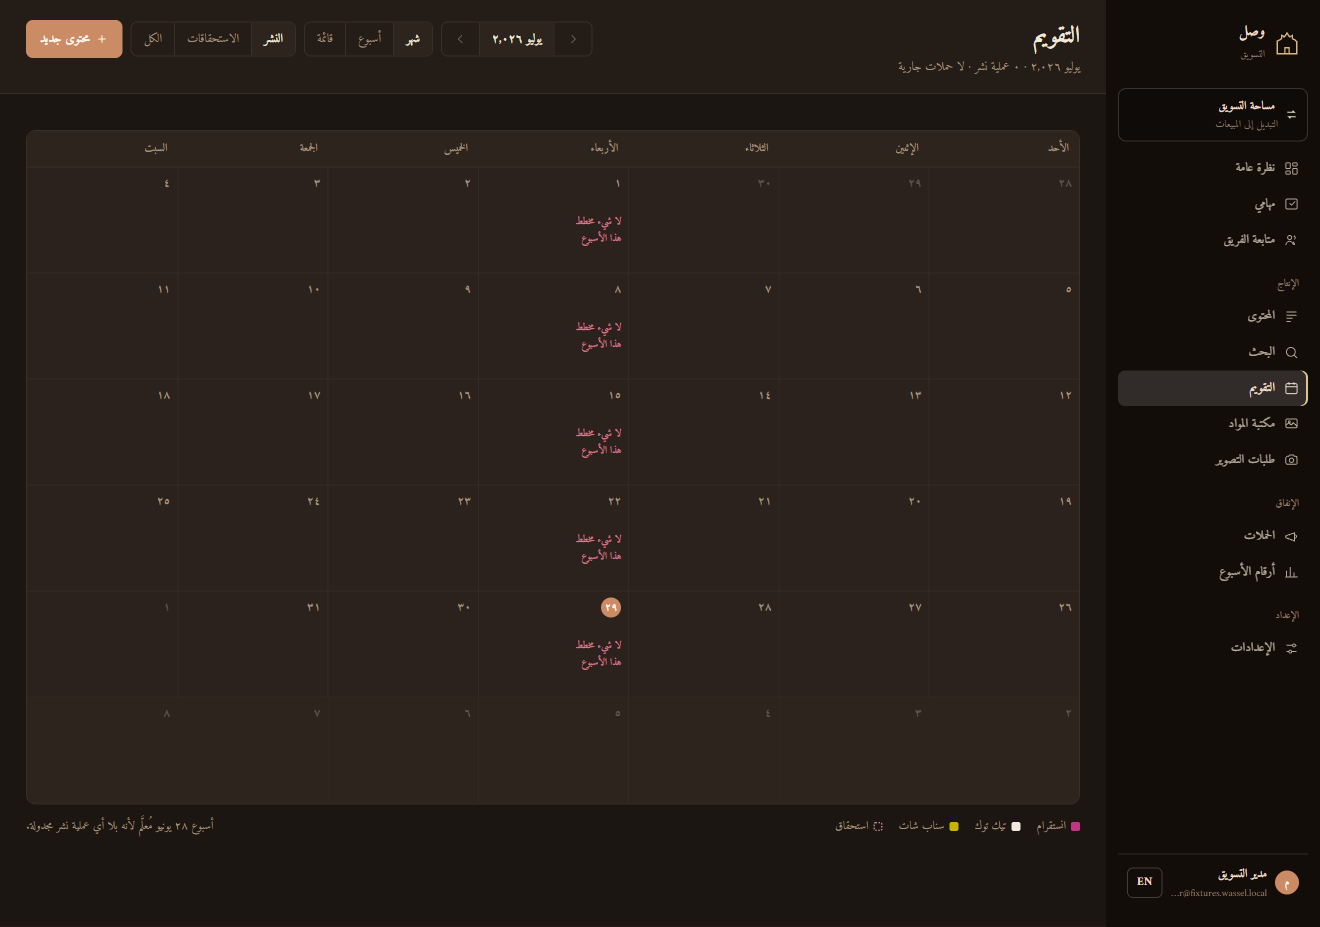
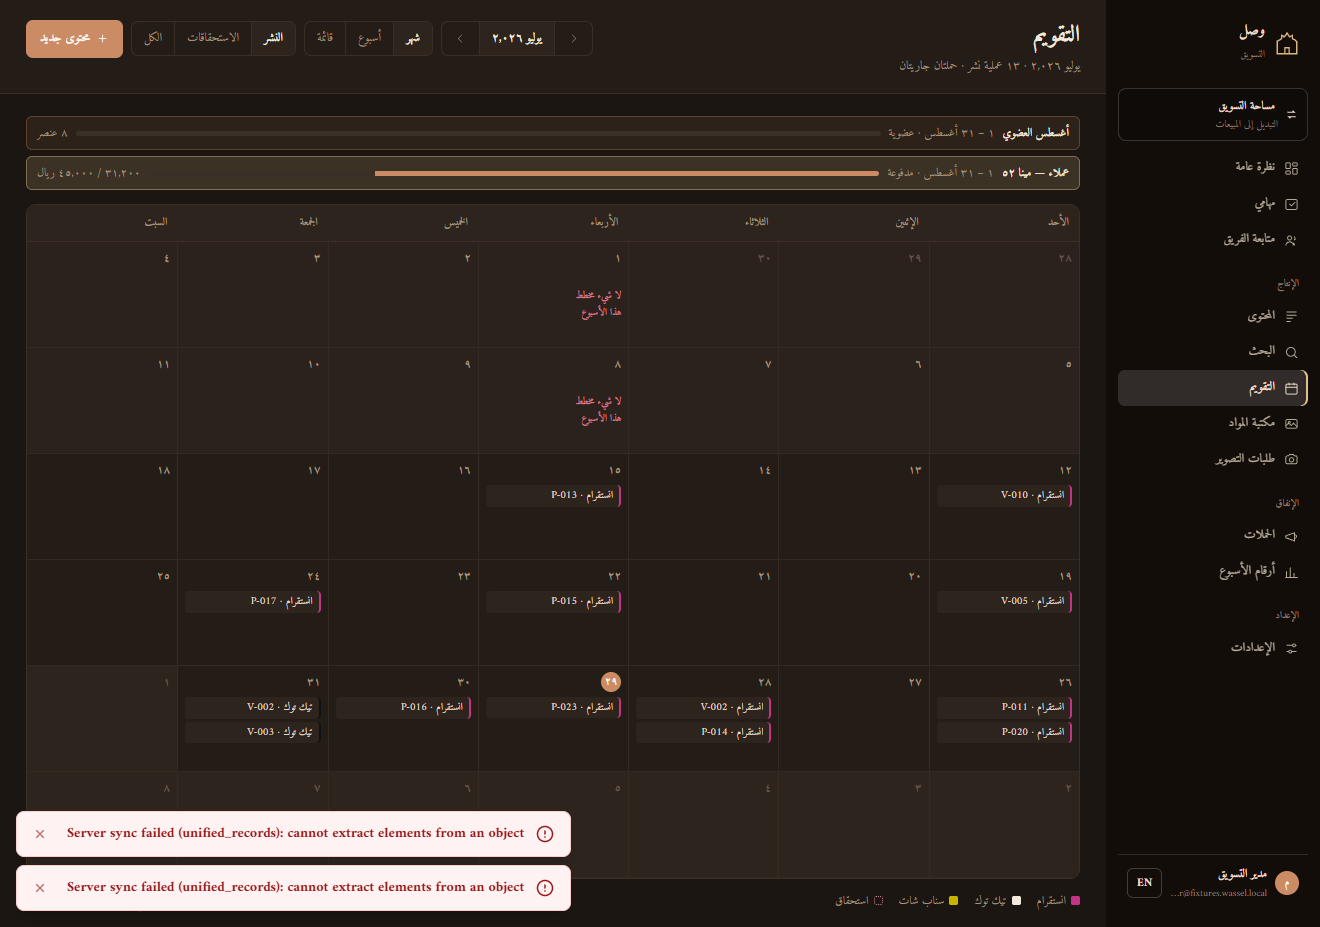
Fixtures phase 1 LIVE + verified on the branch; filled-data capture sweep
State-driven V-004 loop (converges from any partial state); migration 10
(versions INSERT + assign — ops-owned step submits); manifest reads real PNG
dims (s35 off-by-one rounding); filled baselines s01-.78 s04-.85 s16-.62 with
diff evidence; drift-chase plan recorded in BUILD-STATE.

diff --git a/docs/marketing-reference/manifest.md b/docs/marketing-reference/manifest.md
@@ -1,19 +1,19 @@
 # Marketing OS — Visual Gate Manifest
 
-Generated: 2026-08-02T13:48:02.430Z
+Generated: 2026-08-02T15:53:34.736Z
 Sources: `frames-index.json` + `coverage-matrix.mjs` (regenerate with `node scripts/mos-manifest.mjs`)
 
-**Totals:** 278 rows — 124 ssim / 154 assert — pending: 120 ssim / 154 assert — updated by `scripts/mos-qa.mjs`
+**Totals:** 278 rows — 124 ssim / 154 assert — pending: 116 ssim / 154 assert — carried forward: 265 / reset: 13
 
 | id | screen | route | setup | locale | theme | role | viewport | gate | status |
 | --- | --- | --- | --- | --- | --- | --- | --- | --- | --- |
 | s01-main-ar-dark | 1 | /m | overview-loaded | ar | dark | marketing_manager | 1320x760 | ssim | fail |
 | s01-main-ar-light | 1 | /m | overview-loaded | ar | light | marketing_manager | 1320x760 | ssim | pending |
-| s02-main-ar-dark | 2 | /m/my-work | mywork-writer | ar | dark | writer | 1320x760 | ssim | pending |
+| s02-main-ar-dark | 2 | /m/my-work | mywork-writer | ar | dark | writer | 1320x760 | ssim | fail |
 | s02-main-ar-light | 2 | /m/my-work | mywork-writer | ar | light | writer | 1320x760 | ssim | pending |
-| s03-main-ar-dark | 3 | /m/content | content-table | ar | dark | marketing_manager | 1320x760 | ssim | pending |
+| s03-main-ar-dark | 3 | /m/content | content-table | ar | dark | marketing_manager | 1320x760 | ssim | fail |
 | s03-main-ar-light | 3 | /m/content | content-table | ar | light | marketing_manager | 1320x760 | ssim | pending |
-| s04-main-ar-dark | 4 | /m/content?view=board | content-board | ar | dark | marketing_manager | 1320x760 | ssim | pending |
+| s04-main-ar-dark | 4 | /m/content?view=board | content-board | ar | dark | marketing_manager | 1320x760 | ssim | fail |
 | s04-main-ar-light | 4 | /m/content?view=board | content-board | ar | light | marketing_manager | 1320x760 | ssim | pending |
 | s05-main-ar-dark | 5 | /m/content | new-content-modal | ar | dark | marketing_manager | 1320x754 | ssim | pending |
 | s05-main-ar-light | 5 | /m/content | new-content-modal | ar | light | marketing_manager | 1320x754 | ssim | pending |
@@ -47,8 +47,8 @@ Sources: `frames-index.json` + `coverage-matrix.mjs` (regenerate with `node scri
 | s19-main-ar-light | 19 | /m/campaigns | new-campaign-modal | ar | light | marketing_manager | 1320x1070 | ssim | pending |
 | s20-main-ar-dark | 20 | /m/campaigns/:c002?tab=executions | c002-executions | ar | dark | marketing_manager | 1320x1152 | ssim | pending |
 | s20-main-ar-light | 20 | /m/campaigns/:c002?tab=executions | c002-executions | ar | light | marketing_manager | 1320x1152 | ssim | pending |
-| s21-main-ar-dark | 21 | /m/campaigns/:c002/exec/:e1 | c002-exec-detail | ar | dark | marketing_manager | 1320x1004 | ssim | pending |
-| s21-main-ar-light | 21 | /m/campaigns/:c002/exec/:e1 | c002-exec-detail | ar | light | marketing_manager | 1320x1004 | ssim | pending |
+| s21-main-ar-dark | 21 | /m/campaigns/:c002/exec/:e1 | c002-exec-detail | ar | dark | marketing_manager | 1320x1005 | ssim | pending |
+| s21-main-ar-light | 21 | /m/campaigns/:c002/exec/:e1 | c002-exec-detail | ar | light | marketing_manager | 1320x1005 | ssim | pending |
 | s22-main-ar-dark | 22 | /m/library/:a012 | asset-detail | ar | dark | marketing_manager | 1320x1066 | ssim | pending |
 | s22-main-ar-light | 22 | /m/library/:a012 | asset-detail | ar | light | marketing_manager | 1320x1066 | ssim | pending |
 | s23-main-ar-dark | 23 | /m/library/upload | upload-queue-realism | ar | dark | marketing_manager | 1320x850 | ssim | pending |
@@ -83,25 +83,25 @@ Sources: `frames-index.json` + `coverage-matrix.mjs` (regenerate with `node scri
 | s32-phone1-ar-light | 32 | /m/campaigns/:c002 | mobile-exec-cards | ar | light | marketing_manager | 374x748 | ssim | pending |
 | s32-phone2-ar-dark | 32 | /m/campaigns/:c002 | mobile-exec-cards | ar | dark | marketing_manager | 374x748 | ssim | pending |
 | s32-phone2-ar-light | 32 | /m/campaigns/:c002 | mobile-exec-cards | ar | light | marketing_manager | 374x748 | ssim | pending |
-| s33-main-ar-dark | 33 | /m/settings/roles | settings-role-matrix | ar | dark | marketing_manager | 1320x1181 | ssim | pending |
-| s33-main-ar-light | 33 | /m/settings/roles | settings-role-matrix | ar | light | marketing_manager | 1320x1181 | ssim | pending |
+| s33-main-ar-dark | 33 | /m/settings/roles | settings-role-matrix | ar | dark | marketing_manager | 1320x1180 | ssim | pending |
+| s33-main-ar-light | 33 | /m/settings/roles | settings-role-matrix | ar | light | marketing_manager | 1320x1180 | ssim | pending |
 | s34-main-ar-dark | 34 | /m | overview-ceo | ar | dark | ceo | 1320x955 | ssim | pending |
 | s34-main-ar-light | 34 | /m | overview-ceo | ar | light | ceo | 1320x955 | ssim | pending |
-| s35-main-ar-dark | 35 | /m/team | team-followup | ar | dark | marketing_manager | 1320x880 | ssim | pending |
-| s35-main-ar-light | 35 | /m/team | team-followup | ar | light | marketing_manager | 1320x880 | ssim | pending |
+| s35-main-ar-dark | 35 | /m/team | team-followup | ar | dark | marketing_manager | 1320x879 | ssim | pending |
+| s35-main-ar-light | 35 | /m/team | team-followup | ar | light | marketing_manager | 1320x879 | ssim | pending |
 | s36-main-ar-dark | 36 | /m/content/:v004 | v004-role-harness | ar | dark | marketing_manager | 1320x880 | ssim | pending |
 | s36-main-ar-light | 36 | /m/content/:v004 | v004-role-harness | ar | light | marketing_manager | 1320x880 | ssim | pending |
 | s37-main-ar-dark | 37 | /m/settings/people | settings-people | ar | dark | marketing_manager | 1320x760 | ssim | pending |
 | s37-main-ar-light | 37 | /m/settings/people | settings-people | ar | light | marketing_manager | 1320x760 | ssim | pending |
 | s38-main-ar-dark | 38 | /m/content/:v004?tab=tasks | request-changes-modal | ar | dark | marketing_manager | 1320x741 | ssim | pending |
 | s38-main-ar-light | 38 | /m/content/:v004?tab=tasks | request-changes-modal | ar | light | marketing_manager | 1320x741 | ssim | pending |
-| s39-main-ar-dark | 39 | /m/campaigns/:c002?tab=content | c002-content-tab | ar | dark | marketing_manager | 1320x905 | ssim | pending |
-| s39-main-ar-light | 39 | /m/campaigns/:c002?tab=content | c002-content-tab | ar | light | marketing_manager | 1320x905 | ssim | pending |
+| s39-main-ar-dark | 39 | /m/campaigns/:c002?tab=content | c002-content-tab | ar | dark | marketing_manager | 1320x904 | ssim | pending |
+| s39-main-ar-light | 39 | /m/campaigns/:c002?tab=content | c002-content-tab | ar | light | marketing_manager | 1320x904 | ssim | pending |
 | s40-main-ar-dark | 40 | /m/campaigns/:c002?tab=results | c002-results-tab | ar | dark | marketing_manager | 1320x822 | ssim | pending |
 | s40-main-ar-light | 40 | /m/campaigns/:c002?tab=results | c002-results-tab | ar | light | marketing_manager | 1320x822 | ssim | pending |
 | s41-main-ar-dark | 41 | /m/library/unused | library-unused | ar | dark | marketing_manager | 1320x760 | ssim | pending |
 | s41-main-ar-light | 41 | /m/library/unused | library-unused | ar | light | marketing_manager | 1320x760 | ssim | pending |
-| s42-main-ar-dark | 42 | /m/shoots | shoots-bands | ar | dark | marketing_manager | 1320x865 | ssim | pending |
+| s42-main-ar-dark | 42 | /m/shoots | shoots-bands | ar | dark | marketing_manager | 1320x865 | ssim | fail |
 | s42-main-ar-light | 42 | /m/shoots | shoots-bands | ar | light | marketing_manager | 1320x865 | ssim | pending |
 | s43-main-ar-dark | 43 | /m/settings/notifications | settings-notifications | ar | dark | marketing_manager | 1320x791 | ssim | pending |
 | s43-main-ar-light | 43 | /m/settings/notifications | settings-notifications | ar | light | marketing_manager | 1320x791 | ssim | pending |
@@ -151,17 +151,17 @@ Sources: `frames-index.json` + `coverage-matrix.mjs` (regenerate with `node scri
 | s17-main-en-mirror | 17 | /m/settings/workflows | workflows-editor | en | dark | marketing_manager | 1320x1012 | assert | pending |
 | s19-main-en-mirror | 19 | /m/campaigns | new-campaign-modal | en | dark | marketing_manager | 1320x1070 | assert | pending |
 | s20-main-en-mirror | 20 | /m/campaigns/:c002?tab=executions | c002-executions | en | dark | marketing_manager | 1320x1152 | assert | pending |
-| s21-main-en-mirror | 21 | /m/campaigns/:c002/exec/:e1 | c002-exec-detail | en | dark | marketing_manager | 1320x1004 | assert | pending |
+| s21-main-en-mirror | 21 | /m/campaigns/:c002/exec/:e1 | c002-exec-detail | en | dark | marketing_manager | 1320x1005 | assert | pending |
 | s22-main-en-mirror | 22 | /m/library/:a012 | asset-detail | en | dark | marketing_manager | 1320x1066 | assert | pending |
 | s23-main-en-mirror | 23 | /m/library/upload | upload-queue-realism | en | dark | marketing_manager | 1320x850 | assert | pending |
 | s24-main-en-mirror | 24 | /m/shoots/:sr003 | shoot-request-detail | en | dark | marketing_manager | 1320x823 | assert | pending |
 | s25-main-en-mirror | 25 | /m/settings | settings-home | en | dark | marketing_manager | 1320x700 | assert | pending |
 | s26-main-en-mirror | 26 | /m/settings/platforms | settings-platforms | en | dark | marketing_manager | 1320x1046 | assert | pending |
 | s27-main-en-mirror | 27 | /m/settings/content-types | settings-content-types | en | dark | marketing_manager | 1320x884 | assert | pending |
-| s33-main-en-mirror | 33 | /m/settings/roles | settings-role-matrix | en | dark | marketing_manager | 1320x1181 | assert | pending |
-| s33-role-marketing_manager | 33 | /m/settings/roles | settings-role-matrix@role=marketing_manager | ar | dark | marketing_manager | 1320x1181 | assert | pending |
+| s33-main-en-mirror | 33 | /m/settings/roles | settings-role-matrix | en | dark | marketing_manager | 1320x1180 | assert | pending |
+| s33-role-marketing_manager | 33 | /m/settings/roles | settings-role-matrix@role=marketing_manager | ar | dark | marketing_manager | 1320x1180 | assert | pending |
 | s34-role-ceo | 34 | /m | overview-ceo@role=ceo | ar | dark | ceo | 1320x955 | assert | pending |
-| s35-main-en-mirror | 35 | /m/team | team-followup | en | dark | marketing_manager | 1320x880 | assert | pending |
+| s35-main-en-mirror | 35 | /m/team | team-followup | en | dark | marketing_manager | 1320x879 | assert | pending |
 | s36-role-ceo | 36 | /m/content/:v004 | v004-role-harness@role=ceo | ar | dark | ceo | 1320x880 | assert | pending |
 | s36-role-marketing_manager | 36 | /m/content/:v004 | v004-role-harness@role=marketing_manager | ar | dark | marketing_manager | 1320x880 | assert | pending |
 | s36-role-ops_supervisor | 36 | /m/content/:v004 | v004-role-harness@role=ops_supervisor | ar | dark | ops_supervisor | 1320x880 | assert | pending |
@@ -169,7 +169,7 @@ Sources: `frames-index.json` + `coverage-matrix.mjs` (regenerate with `node scri
 | s36-role-montage | 36 | /m/content/:v004 | v004-role-harness@role=montage | ar | dark | montage | 1320x880 | assert | pending |
 | s37-main-en-mirror | 37 | /m/settings/people | settings-people | en | dark | marketing_manager | 1320x760 | assert | pending |
 | s38-main-en-mirror | 38 | /m/content/:v004?tab=tasks | request-changes-modal | en | dark | marketing_manager | 1320x741 | assert | pending |
-| s39-main-en-mirror | 39 | /m/campaigns/:c002?tab=content | c002-content-tab | en | dark | marketing_manager | 1320x905 | assert | pending |
+| s39-main-en-mirror | 39 | /m/campaigns/:c002?tab=content | c002-content-tab | en | dark | marketing_manager | 1320x904 | assert | pending |
 | s40-main-en-mirror | 40 | /m/campaigns/:c002?tab=results | c002-results-tab | en | dark | marketing_manager | 1320x822 | assert | pending |
 | s41-main-en-mirror | 41 | /m/library/unused | library-unused | en | dark | marketing_manager | 1320x760 | assert | pending |
 | s42-main-en-mirror | 42 | /m/shoots | shoots-bands | en | dark | marketing_manager | 1320x865 | assert | pending |

diff --git a/docs/marketing-reference/BUILD-STATE.md b/docs/marketing-reference/BUILD-STATE.md
@@ -22,6 +22,37 @@
 - B3 COMPLETE (migrations 04+06 on branch, worker loops, send-notification-wa endpoint).
   Kimi part2 dispatch died once with instant exit 4 + empty output (transient) — retried.
 
+## FIXTURES LIVE (A5 DONE — 2026-08-01 ~13:00)
+- `node scripts/mos-fixtures.mjs --phase 1` PASSED VERIFY on the branch: 25 content
+  items at mockup steps, V-004 at script_review r2 with the s10 note, C-002..C-008,
+  7 executions + 6 ads, 16 assets, 3 shoots (2 delivered), 18 publications,
+  8 attributions hitting the CRM rows in-window. Open tasks: mm2/writer3/montage4/ops1.
+- Engine gaps the build surfaced → migrations 08 (workflow_role_path_start — creation
+  right opens first task), 09 (versions UPDATE policy + write_content), 10 (versions
+  INSERT + assign). All applied to branch. RESTART the dev server after EVERY api/ edit
+  (lazy esbuild bundle caches the file state at first hit).
+- Known divergence: shoot refs are SH-* (mos_next_ref trigger prefix) vs mockup SR-* —
+  either migrate the prefix + re-ref rows, or accept + mask; DECIDE during s42 chase.
+- Branch DB is occasionally flaky (one ERR_CONNECTION_CLOSED, one transient 401, one
+  transient 400) — retry once before diagnosing; fixtures converge on re-run.
+
+## FILLED-DATA CAPTURES (drift chase open)
+Latest sweep: s01 .78 / s02 .80 / s03 .75 / s04 .85 / s13 .79 / s14 .79 / s16 .62 /
+s42 .80 / s35 fixed dimension bug (manifest now reads real PNG dims — rounding off-by-one).
+- s01 diff readout: STRUCTURE aligned (cards/table/paid card all in place). Red =
+  (1) fixture VALUES vs mock numbers — the drive matrix sent ~14 items to 'done' but
+  s01 wants ٢٣ تحت الإنتاج (≈2 done). RECONCILE the fixture drive targets against
+  s01+s03 jointly (edit CONTENT drive fields in scripts/mos-fixtures.mjs, teardown-less
+  re-drive is NOT possible backwards — plan: adjust targets, --teardown, full rebuild).
+  (2) rail badge counts (مهامي ٦١/الحملات ٦ style badges in mock). (3) pill styling.
+- s16 regressed with data (0.62): likely asset thumbnails (real vs mock placeholders)
+  → candidate for the mask mechanism (masks allowed ONLY where reference shows
+  placeholder media) + section layout drift.
+- NEXT LOOP: per-screen: view diffs/<id>.png → fix UI or fixture values → re-capture.
+  Then dispatch kimi-specs/qa-setups-full.md, then remaining clusters
+  (c-content-detail-1, c-content-detail-2, c-campaign-detail, c-settings-engine,
+  c-pages-remaining, d-mobile-layer), then journeys E, gates F.
+
 Working doc for the one-phase build. Claude orchestrates + reviews; **Kimi K3 writes the
 code** (`bash scripts/kimi-code.sh "$(cat <spec>)"`, specs in the session scratchpad
 `kimi-specs/`; Kimi cannot run shell commands — Claude runs tsc/build/captures).
